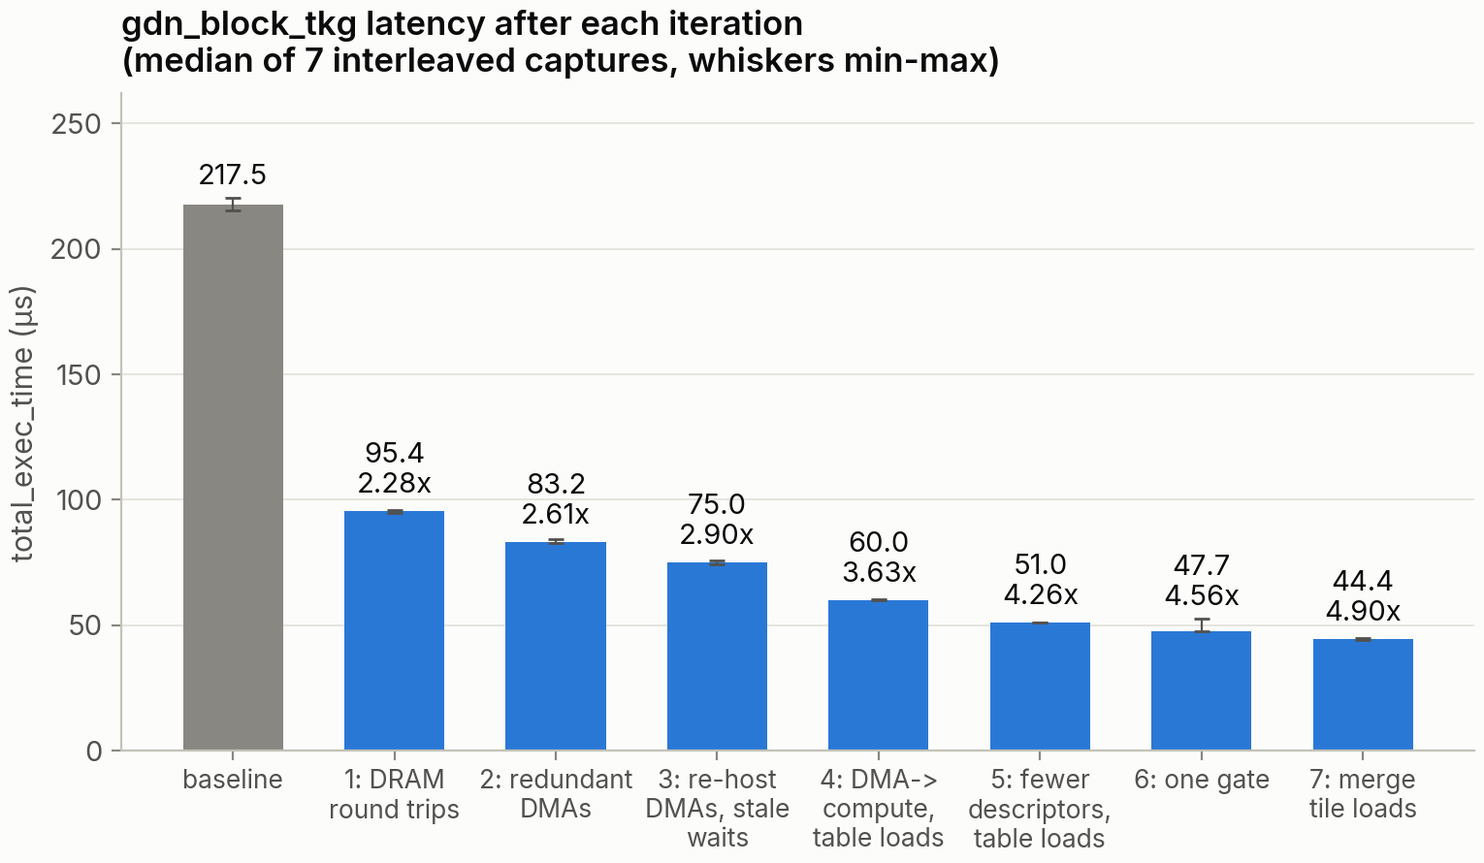
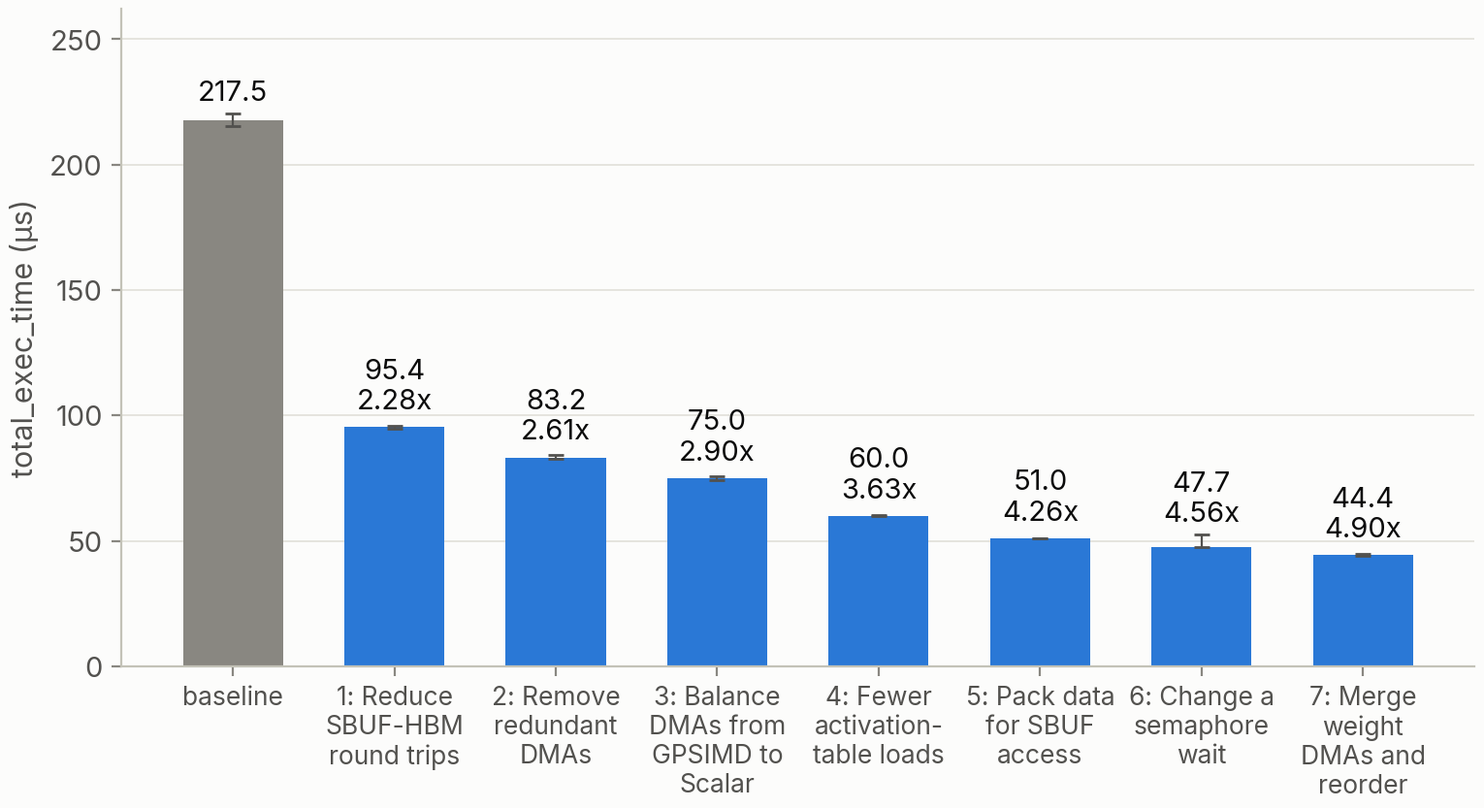
update blog

diff --git a/figs/src/fig_steps.py b/figs/src/fig_steps.py
@@ -149,49 +149,67 @@ def step4():
                     (MUTED, "table-agnostic (square, copy, CAST)", 56)):
         box(ax, x, 8.2, 2.2, 3.2, "", fc=c, ec=c, radius=0.3)
         label(ax, x + 3.2, 9.8, n, size=10)
-    label(ax, 1, 5.6, "Illustrative sequence (not slot-exact). Tail loads went 4,2,4,2,4,2,4 -> 4,2,4; kernel "
-          "total 13 -> 7.\nNo set holds both silu and rsqrt, so 5 loads is the floor.", size=10, color=INK2,
-          va="top")
     save(fig, "fig15_step4_tables.png")
 
 
 def step5():
-    fig, ax = canvas(9, 6.0, 100)
-    cols = (BLUE, VIOLET, GREEN, ORANGE)
-    label(ax, 1, 64.5, "A partition -> row transpose costs one DMA descriptor per partition per column",
-          size=11.5, weight="semibold", color=INK)
+    """Partition->row transpose of four vectors: 512 descriptors, or pack first and use 128."""
+    fig, ax = canvas(9, 4.9, 100)
+    cw, ch = 2.9, 2.5
+    vec = [("A", BLUE), ("B", VIOLET), ("C", GREEN), ("D", ORANGE)]
 
-    def grid(x0, y0, w=3.3, h=1.2, ncol=4, rows=8, gap=0.35):
-        for r in range(rows):
-            for c in range(ncol):
-                box(ax, x0 + c * w, y0 - r * h, w - gap, h - 0.25, "", fc=cols[c % 4], ec=cols[c % 4],
-                    radius=0.15)
-    label(ax, 1, 59.5, "before: 4 transfers x 128 descriptors (2 B each)", size=10.5, color=INK,
-          weight="medium")
-    grid(2, 55)
-    label(ax, 2, 44.4, "SBUF: 128 partitions,\n4 columns 256 B apart", size=9.5, color=INK2, va="top")
-    for k, c in enumerate(cols):
-        arrow(ax, 16, 51.5 - k * 1.2, 26.5, 55.2 - k * 3.4, color=c, lw=1.3)
-        box(ax, 27, 54 - k * 3.4, 32, 2.4, "", fc=c, ec=c, radius=0.2)
-    label(ax, 62, 50, "4 rows in partition 0:\n512 descriptors,\n~5 µs of DGE time", size=10,
-          color=ORANGE, va="center")
-    label(ax, 1, 37, "after: pack by compute, then 1 transfer x 128 descriptors (8 B each)", size=10.5,
-          color=INK, weight="medium")
-    grid(2, 32.5)
-    arrow(ax, 16, 28.5, 24.5, 28.5, lw=1.4)
-    label(ax, 20.25, 30.6, "4 CASTs", size=9.5, ha="center")
-    grid(25.5, 32.5, w=1.7, gap=0.3)
-    label(ax, 25.5, 22, "8 contiguous bytes\nper partition", size=9.5, color=INK2, va="top")
-    arrow(ax, 33, 28.5, 40.5, 28.5, lw=1.4)
-    for k in range(28):
-        c = cols[k % 4]
-        box(ax, 41.5 + k * 1.15, 27.2, 0.95, 2.6, "", fc=c, ec=c, radius=0.1)
-    label(ax, 41.5, 24.8, "one interleaved row; consumers read it with stride 4\n(incl. the Tensor Engine's "
-          "reverse-stride LDWEIGHTS: every step x4)", size=9.5, color=INK2, va="top")
-    label(ax, 1, 15.5, "Applied to both transpose groups: -1.4 µs and -2.8 µs. The DMA engine retires ~1,500 "
-          "tiny transpose\ndescriptors serially (~8-15 ns each), so in that window only removing descriptors "
-          "helped: three edits\nthat merely started transfers earlier were correct and lost time.", size=10,
-          color=INK2, va="top")
+    def cell(x, y, v, i, c, hi=False):
+        box(ax, x, y, cw - 0.25, ch - 0.25, f"{v}{i}", fc=c, ec=INK if hi else c, size=7.5, radius=0.25,
+            color="white", lw=1.6 if hi else 1.0)
+
+    def columns(x0, ytop, packed):
+        for p in range(4):
+            y = ytop - p * ch
+            label(ax, x0 - 1, y + ch / 2 - 0.1, f"p{p}", size=9, ha="right", color=MUTED)
+            for k, (v, c) in enumerate(vec):
+                cell(x0 + k * (cw if packed else cw + 1.4), y, v, p, c)
+        label(ax, x0 + (2 * cw if packed else 2 * cw + 2.1), ytop - 4 * ch + 0.9, "...", size=11,
+              ha="center", color=MUTED)
+
+    def row(x0, y, seq, hi=None):
+        label(ax, x0 - 1, y + ch / 2 - 0.1, "p0", size=9, ha="right", color=MUTED)
+        for k, item in enumerate(seq):
+            if item is None:
+                label(ax, x0 + k * cw + cw / 2, y + ch / 2 - 0.1, "...", size=11, ha="center", color=MUTED)
+            else:
+                v, i, c = item
+                cell(x0 + k * cw, y, v, i, c, hi=(v == hi))
+        return x0 + len(seq) * cw
+
+    # before: column layout -> row layout, one descriptor per value
+    label(ax, 1, 49, "Before: the DMA moves each value separately (4 x 128 = 512 descriptors)",
+          size=11, weight="semibold", color=INK)
+    label(ax, 8, 44.2, "column: one value per partition", size=9.5, color=INK2)
+    columns(8, 40, packed=False)
+    arrow(ax, 2.6, 42.5, 2.6, 32.8, color=MUTED, lw=1.2)
+    label(ax, 1.4, 37.6, "partitions", size=9, color=MUTED, rotation=90, ha="center")
+    arrow(ax, 27, 36.5, 34, 36.5)
+    label(ax, 37, 41.4, "row: each vector along one partition", size=9.5, color=INK2)
+    seq = []
+    for v, c in vec:
+        seq += [(v, i, c) for i in range(3)] + [None]
+    xe = row(37, 35.3, seq)
+    arrow(ax, 37, 33.6, xe - 1, 33.6, color=MUTED, lw=1.2)
+    label(ax, 37, 31.9, "free axis: A is read as 128 values in a row, stride 1", size=9, color=MUTED, va="top")
+    # after: pack inside each partition, then one descriptor per partition
+    label(ax, 1, 25.5, "After: pack each partition first, then one descriptor per partition (128)",
+          size=11, weight="semibold", color=INK)
+    columns(8, 18.5, packed=False)
+    arrow(ax, 27, 15, 35, 15)
+    label(ax, 31, 17.4, "4 CASTs:\ncopy within\neach partition", size=8.5, ha="center", va="bottom")
+    label(ax, 40, 22.2, "8 bytes per partition", size=9.5, color=INK2)
+    columns(40, 18.5, packed=True)
+    arrow(ax, 52.5, 15, 59, 15)
+    label(ax, 55.7, 16.8, "one DMA", size=8.5, ha="center")
+    label(ax, 62, 17.6, "interleaved row in partition 0", size=9.5, color=INK2)
+    seq = [(v, i, c) for i in range(3) for v, c in vec] + [None]
+    row(62, 13.8, seq, hi="A")
+    label(ax, 62, 12.1, "A is read with stride 4 (A0, A1, A2, ...)", size=9, color=MUTED, va="top")
     save(fig, "fig16_step5_pack.png")
 
 

diff --git a/figs/src/fig_data.py b/figs/src/fig_data.py
@@ -128,16 +128,14 @@ def waterfall():
         if i:
             txt += f"\n{med[0] / med[i]:.2f}x"
         ax.text(i, med[i] + max(hi[i], 2) + 3, txt, ha="center", va="bottom", fontsize=10.5, color=INK)
-    ticks = ["baseline", "1: DRAM\nround trips", "2: redundant\nDMAs", "3: re-host\nDMAs, stale\nwaits",
-             "4: DMA->\ncompute,\ntable loads", "5: fewer\ndescriptors,\ntable loads", "6: one gate",
-             "7: merge\ntile loads"]
+    ticks = ["baseline", "1: Reduce\nSBUF-HBM\nround trips", "2: Remove\nredundant\nDMAs",
+             "3: Balance\nDMAs from\nGPSIMD to\nScalar", "4: Fewer\nactivation-\ntable loads",
+             "5: Pack data\nfor SBUF\naccess", "6: Change a\nsemaphore\nwait", "7: Merge\nweight\nDMAs and\nreorder"]
     ax.set_xticks(x, ticks, fontsize=9.5)
     ax.set_ylabel("total_exec_time (µs)")
     ax.set_ylim(0, 262)
     ax.yaxis.grid(True, color=GRID, lw=0.6)
     ax.set_axisbelow(True)
-    ax.set_title("gdn_block_tkg latency after each iteration\n"
-                 "(median of 7 interleaved captures, whiskers min-max)")
     save(fig, "fig10_gdn_waterfall.png")
 
 

diff --git a/BLOG.md b/BLOG.md
@@ -302,28 +302,26 @@ We optimized the GDN kernel at NEFF level with seven steps, achieving 4.9x speed
 <!-- ![Figure 11: timeline before and after](figs/fig11_gdn_timeline.png)
 *Figure 11. One profiled execution before and after, on the same time axis. Orange = DMA issue, yellow = table loads, green = DMA data in flight.* -->
 
-#### Step 1 — Reduce the SBUF-HBM round-trip for data access (217.5 → 95.4 µs, 2.28x)
+#### Step 1: Reduce the SBUF-HBM round trips for data access (217.5 µs to 95.4 µs, 2.28x)
 
-Every HBM hand-off in Figure 7 became DRAM traffic in the NEFF: one DMA writes small per-partition values into a DRAM `tmp-buf`, and another reads them back. Reads from DRAM complete in about 1.6 µs. Writes of 128 two-byte elements, however, take **17–22 µs to report completion**, although the bytes land within 0.6 µs, and everything queued behind them waits too (Figure 12a). With about 30 such transfers in 5–6 serial rounds, the kernel spent most of its time waiting.
+<!-- ![Figure 12a: DMA completion latency by direction and element size](figs/fig12a_dma_latency.png)
+*Figure 12a. Every DGE DMA of the baseline: time from issue until its completion semaphore is reached, from one profiled execution. The bar marks the median.* -->
 
-![Figure 12a: DMA completion latency by direction and element size](figs/fig12a_dma_latency.png)
-*Figure 12a. Every DGE DMA of the baseline: time from issue until its completion semaphore is reached, from one profiled execution. The bar marks the median.*
+Our first step is to eliminate the long idle stretch in Figure 9. It is caused by DMA round trips between SBUF and HBM. Each stage of the kernel stores its result in an HBM tensor, and the next stage loads it back (Figure 7): the projected query, key and value vector, the convolution output `conv_out`, and the per-head inputs of GDN block (`q_bh`, `k_bh`, `v_bh` and `z_bh`). In the NEFF, each of these becomes a pair of DMAs through a small DRAM buffer: a writer that stores a few bytes from each of the 128 partitions, and a reader that loads them back into SBUF. The reads complete in about 1.6 µs, but each write takes 17 to 22 µs to report completion, and about 30 of these transfers run in 5 to 6 dependent rounds.
 
-Each writer/reader pair is really a per-partition copy, sometimes with a bf16→fp32 cast. So we give the **writer the reader's destination** and the **reader the writer's source** (Figure 12b). Both now perform the same SBUF→SBUF copy, the writer's completion means "the data is in place", and the reader becomes a harmless repeat. In the NEFF, this only rewrites the address fields (bytes 16–63) of the DGE DMA slots and the matching queued descriptors in `SP0.json`. Only one wait had to be re-pointed, so the edit barely touches synchronization, and all 122 µs came out of idle time.
+Instead, we remove the DRAM access at the NEFF level. Each writer and reader pair only copies data from one SBUF location to another, sometimes converting bf16 to fp32 on the way. It turns out that performing SBUF copy and manipulation has significantly less wait time, and all 122 µs saved come from idle time. The same result is possible in NKI with a careful rewrite of the kernel, but it breaks the reuse of `gdn_conv1d_decode` and `gdn_tkg` as standalone kernels that other kernels also call. It is also hard to tell which DMAs are redundant from the profile alone, because the trace does not map one-to-one onto the kernel source.
 
-![Figure 12b: the writer/reader swap](figs/fig12b_step1_roundtrip.png)
-*Figure 12b. A DRAM round trip becomes an SBUF→SBUF copy by swapping address fields between the two DMAs.*
+<!-- ![Figure 12b: the writer/reader swap](figs/fig12b_step1_roundtrip.png)
+*Figure 12b. A DRAM round trip becomes an SBUF→SBUF copy by swapping address fields between the two DMAs.* -->
 
-Could NKI do it? Yes, but only by giving up composition. The round trips exist because the block reuses `gdn_conv1d_decode` and `gdn_tkg` unchanged, and those kernels take and return HBM tensors. Avoiding them in NKI means rewriting both as helpers that pass SBUF tiles. The NEFF edit gets the same result and leaves the source modular.
+#### Step 2: Remove DMAs that are duplicated or only signal completion (95.4 µs to 83.2 µs, 1.15x)
 
-#### Step 2 — Remove DMA that are duplicated or only used for completion signal (95.4 → 83.2 µs, 1.15x)
+Step 1 left 21 DMAs that are no longer needed: 16 repeat a copy that another DMA has already made, and 5 move no useful data and only signal completion. Each still costs about 0.56 µs of engine time to issue, plus a 2 to 7 µs wait for its completion. We cannot simply delete them, because other instructions wait on their semaphores. A consumer waits until the DMA's semaphore reaches a given count, such as `S[62] >= 16`, and that count is reached only when the DMA completes and adds 16. Without the DMA, those waits would never be met, and the core would hang.
 
-Step 1 left 16 DMAs that repeat a copy already made by another DMA, plus 5 that only signal completion. Shrinking them does not help, because a DGE DMA costs about 0.56 µs of engine time almost regardless of its size (Figure 13a).
+Instead, we overwrite each DMA slot with an `EVENT_SEMAPHORE`, an instruction that moves no data. It keeps the DMA's own wait, so it still runs only after the real copy has finished. When it completes, `SEM_ADD_IMM_COMPLETE` adds 16 to the DMA's semaphore, the same increment that the DMA's completion would have made. Every consumer therefore sees the same count as before, and no wait anywhere has to change, but the count now arrives 0.03 µs after the data is ready instead of several microseconds later. In bytes, only the opcode and two event fields change:
 
-![Figure 13a: DGE issue cost](figs/fig13a_dge_issue_cost.png)
-*Figure 13a. Engine time to issue a DGE DMA against its descriptor count, all 312 issues in the 8 profiles.*
-
-Instead, we overwrite each one with an `EVENT_SEMAPHORE` that waits for the same producer and then adds 16 to the DMA's own semaphore with `SEM_ADD_IMM_COMPLETE` (Figure 13b). Every waiter downstream stays as it was. In bytes, the change is the opcode and two event fields:
+<!-- ![Figure 13a: DGE issue cost](figs/fig13a_dge_issue_cost.png)
+*Figure 13a. Engine time to issue a DGE DMA against its descriptor count, all 312 issues in the 8 profiles.* -->
 
 ```text
 // SP0.bin slot 13, bytes 0-11
@@ -331,43 +329,39 @@ before:  d4 10 00 00 05 48 00 00 10 00 00 00   PSEUDO_DMA_DIRECT2D  wait S[72] >
 after:   a0 10 00 00 05 48 15 3e 10 00 00 00   EVENT_SEMAPHORE      wait S[72] >= 16; then S[62] += 16 (SEM_ADD_IMM_COMPLETE)
 ```
 
-![Figure 13b: DMA replaced by a semaphore add](figs/fig13b_step2_sem_add.png)
-*Figure 13b. Removing a DMA without touching any wait in the program.*
+<!-- ![Figure 13b: DMA replaced by a semaphore add](figs/fig13b_step2_sem_add.png)
+*Figure 13b. Removing a DMA without touching any wait in the program.* -->
 
-The cost drops from about 0.55 µs, plus a 2–7 µs completion hop, to 0.03 µs. In the same iteration, 8 per-partition Scalar Engine DMAs became compute `CAST`s, and 8 tiny tile loads became one 2-D DMA. Could NKI do it? An NKI rewrite would never emit these duplicate DMAs in the first place, but the mechanism, a semaphore increment that stands in for a transfer, has no NKI equivalent, and later steps reuse it constantly.
+Together with merging 8 small tile loads into one DMA, this step saved 12 µs. This operation is not achievable directly through NKI.
 
-#### Step 3 — Balance DGE DMA on GPSIMD to queued DMA issued by Scalar Engine (83.2 → 75.0 µs, 1.11x)
+#### Step 3: Balance DGE DMAs from the GPSIMD Engine onto the Scalar Engine's idle queues (83.2 µs to 75.0 µs, 1.11x)
 
-The critical path now started with the GPSIMD Engine issuing 25 weight-load DMAs back to back, about 17 µs of pure issue time. `def.json` gives the Scalar Engine 16 DGE queues (semaphores 72–87), but the compiler used only 72–79. So we **inserted** 8 slots into `Activation0.bin`, each a copy of a GPSIMD Engine DMA with only its semaphore changed to 80–87. Nothing records a stream's length, so inserting slots works. Each vacated GPSIMD Engine slot becomes a cheap relay, `EVENT_SEMAPHORE wait S[80+j] >= 16; S[old] += 16`, which keeps every downstream wait byte-identical. With the DMAs moved, the compiler's guard waits on them, and the waits on 7 now-redundant queued triggers, guarded nothing, so we dropped them (Figure 14).
+The critical path now started with the GPSIMD Engine issuing 25 weight loads one after another (about 17 µs). The Scalar Engine owns 16 DGE queues, but only 8 of them are currently used. We moved 8 of the loads onto the unused queues by inserting copies of their DMA slots into the Scalar Engine's stream. Each vacated GPSIMD slot becomes an `EVENT_SEMAPHORE` relay that keeps all later waits unchanged, and waits that no longer guarded anything were removed. The Scalar Engine's work now starts earlier, and the kernel ends 8.4 µs sooner (Figure 14).
 
 ![Figure 14: GPSIMD and Scalar Engines before and after step 3](figs/fig14_step3_queues.png)
 *Figure 14. One profiled run of iterations 2 and 3, from the first instruction to the end of the kernel. Eight of the GPSIMD Engine's serial weight loads (orange) move to the Scalar Engine, so the Scalar Engine's work starts earlier and this run ends 8.4 µs sooner.*
 
-Could NKI do it? Only in part. `dma_copy(..., engine=scalar)` can ask the Scalar Engine to issue a DMA, but choosing the queue and semaphore, the relay, and dropping the guard waits are NEFF-only, and they account for about 3.4 of the 8.2 µs. This step also shows how the two levels depend on each other: the `CAST` conversions in it, which NKI could express, were worth exactly 0.0 µs on their own and 3.6 µs together with the queue move.
+Such operation is hard to manage at NKI level. Although NKI can assign DMA to the specific engine, it cannot control in fine-grain to pin the DMA queue and allocate to let them share between instructions. On the other hand, NEFF can easily modify them by updating the `def.json` and the engine instruction stream.
 
-#### Step 4 — Reduce activation-table loading (75.0 → 60.0 µs, 1.25x)
+#### Step 4: Reduce activation-table loading (75.0 µs to 60.0 µs, 1.25x)
 
-Between ~34 and ~50 µs, the DMA engine was a serial bottleneck, retiring about 1,500 two-byte transpose descriptors one after another. Edits that let transfers start earlier were correct but slower, so the only way forward was to take work away from the DMA engine. Since a compute instruction's source and destination carry their own partitions, small cross-partition copies became Scalar or GPSIMD Engine `CAST`s (1.5–2.9 µs each). One wait that carried four guarantees was also split, moving the late guarantee to the only consumer that needed it (−1.3 µs).
-
-The Scalar Engine's tail had a second problem: it alternated silu (table 2) and rsqrt (table 4) per head, `4,2,4,2,4,2,4`, at 1.3 µs per switch (Figure 15). An `ACTIVATION_TABLE_LOAD` whose table is already resident can be removed, as long as no instruction's resident table changes. Moving one silu `ACTIVATE` into the previous table-2 region and giving another op a private destination deleted 4 loads (−3.3 µs).
+The Scalar Engine switched between the silu and rsqrt tables for every head: 7 table loads at 1.3 µs each (Figure 15). A table load can be removed if its table is already loaded and no instruction ends up using a different table. Moving one silu `ACTIVATE` and giving another instruction its own output buffer removed 4 loads and saved 3.3 µs. In the same step, three small DMAs became `CAST` instructions, and one over-constrained wait was split.
 
 ![Figure 15: activation-table loads](figs/fig15_step4_tables.png)
-*Figure 15. Tail of the per-head loop, illustrative. Loads go 4,2,4,2,4,2,4 → 4,2,4; the kernel total goes 13 → 7.*
+*Figure 15. Tail of the per-head loop, illustrative. The table loads go from 4, 2, 4, 2, 4, 2, 4 to 4, 2, 4, and the kernel's total from 13 to 7.*
 
-Could NKI do it? The `CAST`s only by rewriting the reused kernels, where the DMAs they replace live; there, `tensor_copy` could express them. The table loads only indirectly: NKI has no table-load API, so the best it can do is reorder activations and hope that the compiler coalesces the loads. Splitting a wait is NEFF-only.
+NKI has no API for table loads, so it can only reorder activations and hope that the compiler merges the loads.
 
-#### Step 5 — Data packing for aggregated SBUF access (60.0 → 51.0 µs, 1.18x)
+#### Step 5: Data packing for aggregated SBUF access (60.0 µs to 51.0 µs, 1.18x)
 
-A partition→row transpose of 4 columns costs 4 × 128 descriptors, retired one after another. We first pack the 4 two-byte columns into **8 contiguous bytes per partition** with 4 compute `CAST`s, then move them with **one 128-descriptor DMA of 8-byte elements**, and the consumers read the interleaved row with a stride of 4 (Figure 16). Applied to two transpose groups, this saved 4.2 µs. In the same iteration, two more redundant table loads were removed (−2.9 µs), and the 9 queued DMAs of the output became a single 1 KB store (−1.7 µs).
+Four vectors for each head have to be transposed into rows of partition 0. The clearest case is the keys of the four heads. In the state update, each head computes `S += outer(k, delta)` on the Tensor Engine, as a separate matmul per head. The Tensor Engine sums over the partition axis of its inputs, so for an outer product, which sums over a single element, `k` and `delta` must both be rows in the same partition. `delta` is computed from the previous matmul, `kv = k^T @ S`, whose result is a single row in partition 0, so every head's key must also be a row in partition 0. The kernel therefore keeps the four keys side by side in partition 0, each at its own offset. The DMA does this transpose with one descriptor per value, 512 in total, and processes them one at a time. We first use 4 `CAST` instructions, which here simply copy values within each partition, to place each partition's four values next to each other in 8 contiguous bytes. A single DMA of 128 descriptors, one 8-byte block per partition, then moves everything (Figure 16). The four rows arrive interleaved, so instead of separating them again, the consumers read each vector with a stride of 4. Applied to two such transposes, this saved 4.2 µs. Two more table loads were also removed, and the 9 queued DMAs for the output became one 1 KB store.
 
 ![Figure 16: packing before transposing](figs/fig16_step5_pack.png)
-*Figure 16. 512 → 128 descriptors per transpose group.*
+*Figure 16. Four vectors (A to D) arrive one value per partition but are needed as rows in partition 0. Packing each partition's four values first cuts this transpose from 512 DMA descriptors to 128, and the consumers then read each vector with a stride of 4.*
 
-Could NKI do it? The single store, yes, as a local change to the block's epilogue. The packing only by rewriting the transposing loads inside the reused `gdn_tkg`, and the table loads, again, only indirectly.
+#### Step 6: Modify the semaphore wait condition in the Scalar Engine (51.0 µs to 47.7 µs, 1.07x)
 
-#### Step 6 — Modify the semaphore wait condition in Scalar Engine (51.0 → 47.7 µs, 1.07x)
-
-The Scalar Engine sat idle for 3.7 µs in front of slot 54, an `EVENT_SEMAPHORE` waiting on S[28]. That semaphore belonged to a queued block that, after step 1, only writes 2 bytes into a dead buffer. The Sync Engine triggered it only after the real transfer had completed (S[67]), so it reported about 2.6 µs after the data was already in place (Figure 17). The fix is one byte, the wait index:
+The Scalar Engine is idle for 3.7 µs waiting on S[28], the semaphore of a dummy DMA left over from step 1. That DMA starts only after the real transfer (S[67]) finishes, so it reports 2.6 µs late. Waiting on S[67] instead changes one byte and saves 2.4 µs:
 
 ```text
 // Activation0.bin slot 54, bytes 0-11
@@ -375,19 +369,15 @@ before:  a0 10 00 00 05 1c 00 00 10 00 00 00   EVENT_SEMAPHORE  wait S[28] >= 16
 after:   a0 10 00 00 05 43 00 00 10 00 00 00   EVENT_SEMAPHORE  wait S[67] >= 16   // the real transfer
 ```
 
-![Figure 17: the proxy gate](figs/fig17_step6_gate.png)
-*Figure 17. The gate waited on a dummy transfer that is always triggered after the real one completes.*
+<!-- ![Figure 17: the proxy gate](figs/fig17_step6_gate.png)
+*Figure 17. The gate waited on a dummy transfer that is always triggered after the real one completes.* -->
 
-That byte saved 2.4 µs, and the rest of the iteration moved 8 `CAST`s from the Scalar Engine to the Vector Engine and hoisted 4 silu `ACTIVATE`s above two barriers that only gate the Vector Engine (−0.9 µs). Could NKI do it? No. NKI has no way to choose which semaphore an instruction waits on. To be fair, this particular proxy was a leftover of our own step 1, but the lever itself is exactly what NKI does not expose.
+#### Step 7: Merge the DMAs for projection weights and reorder instructions (47.7 µs to 44.4 µs, 1.07x)
 
-#### Step 7 — Merge the DMA for projection weights and reorder instructions (47.7 → 44.4 µs, 1.07x)
-
-The 8 `in_proj` weight tiles were loaded by 8 DMAs of 128 descriptors each. By the cost model, that is 5.5 µs of issue time, against 1.3 µs for **one DMA of 1,024 descriptors** (Figure 18). We merged them by moving the tile index into dimension 1 of the DGE access pattern, and 8 relay `EVENT_SEMAPHORE`s restore the semaphore counts that the dropped DMAs used to provide.
+The 8 tiles of the projection weights (`W_in_qkv`) were loaded by 8 separate DMAs, and so were the 8 tiles of the convolution state (`conv_state`). Merging each group into one DMA cuts the issue time of the projection weights from about 5.2 µs to 1.3 µs, and 8 `EVENT_SEMAPHORE` relays keep the semaphore counts unchanged. The merge alone made the kernel 0.6 µs slower, because the bottleneck moved to the Sync Engine. We then split the merged `conv_state` load again at the point where the instructions that read the tiles change, since the Vector Engine needs tiles 2 and 3 early, while tiles 4 to 7 are read much later. As one DMA, all 8 tiles complete together, so the early readers wait for the whole transfer. As two DMAs of 4 tiles each, the first half completes about 1.2 µs earlier, which saved 0.5 µs. Moving a few independent `CAST`s and a table load earlier saved another 2.0 µs. Such reordering and spliting of DMA are not managable in NKI level.
 
 <!-- ![Figure 18: merging tile loads](figs/fig18_step7_merge.png)
 *Figure 18. Issue-time cost model for the 8 tile loads.* -->
-
-On its own, the merge was a +0.6 µs regression, because the binder moved to the Sync Engine. Two follow-ups turned it into a win. The merged load was split again at its consumer boundary, so the Vector Engine's tiles land 1.2 µs sooner (−0.5 µs). A GPSIMD Engine `CAST` run was hoisted above three DRAM spill DMAs that it does not depend on (−1.6 µs). The first table load was also hoisted above a barrier, so it now runs during a stall (−0.4 µs). A win can look like a loss until the next binder is fixed.
 
 #### Before and after in neuron-explorer
 
